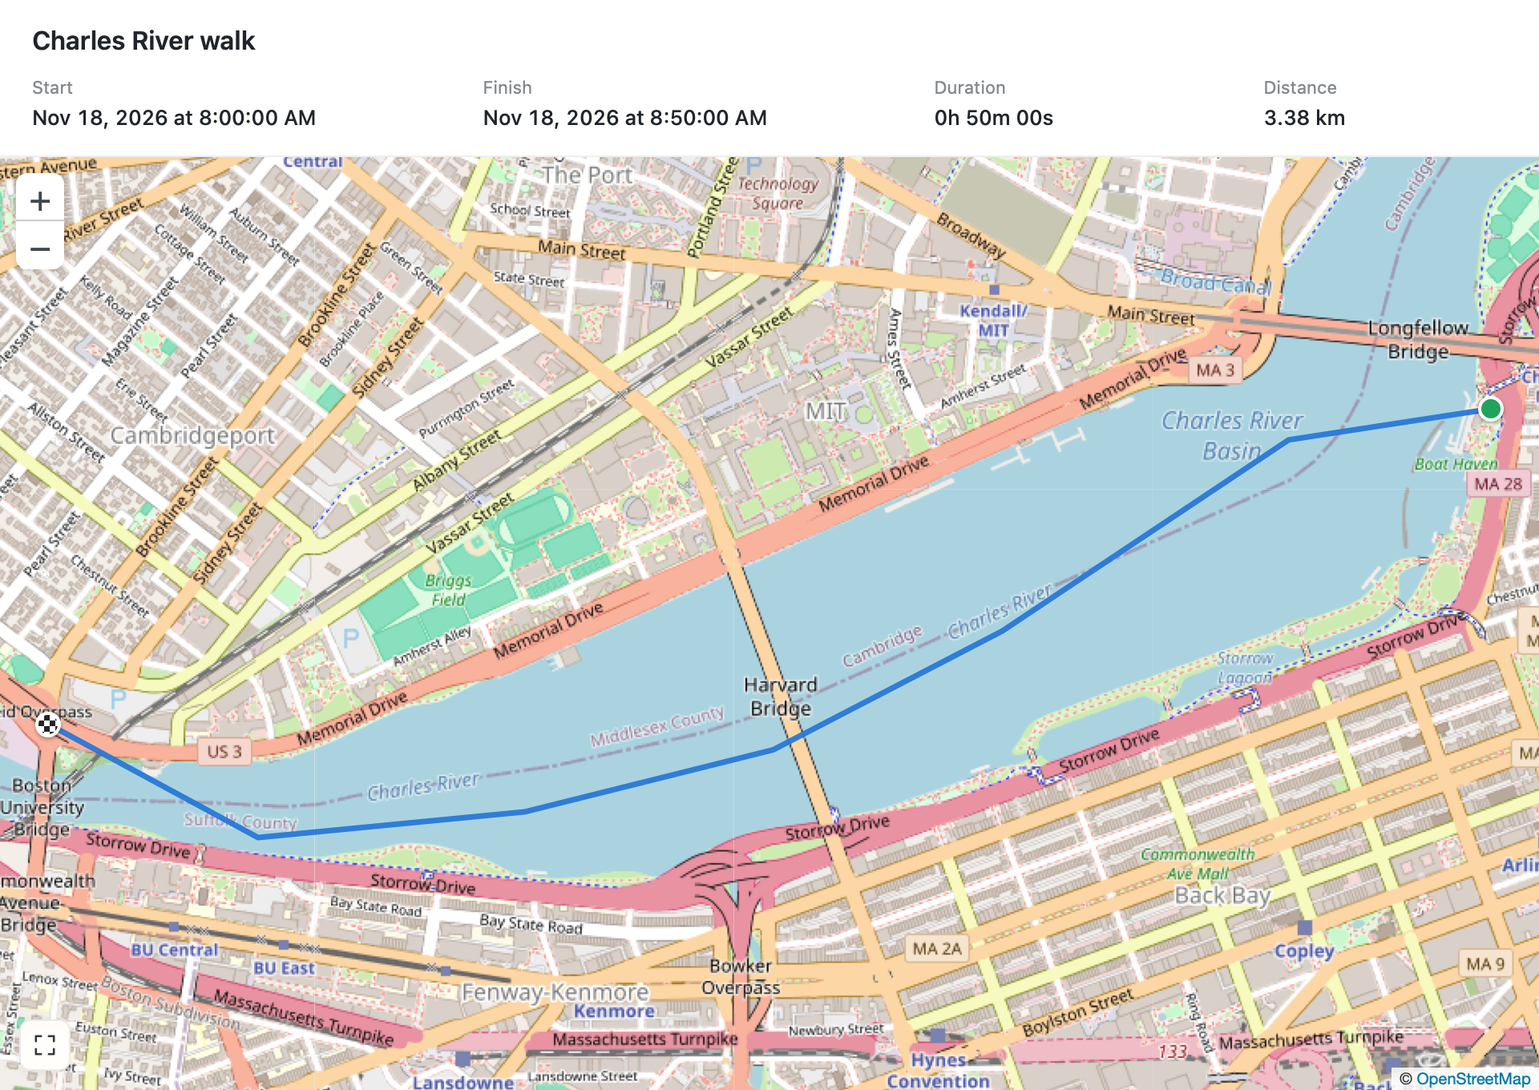
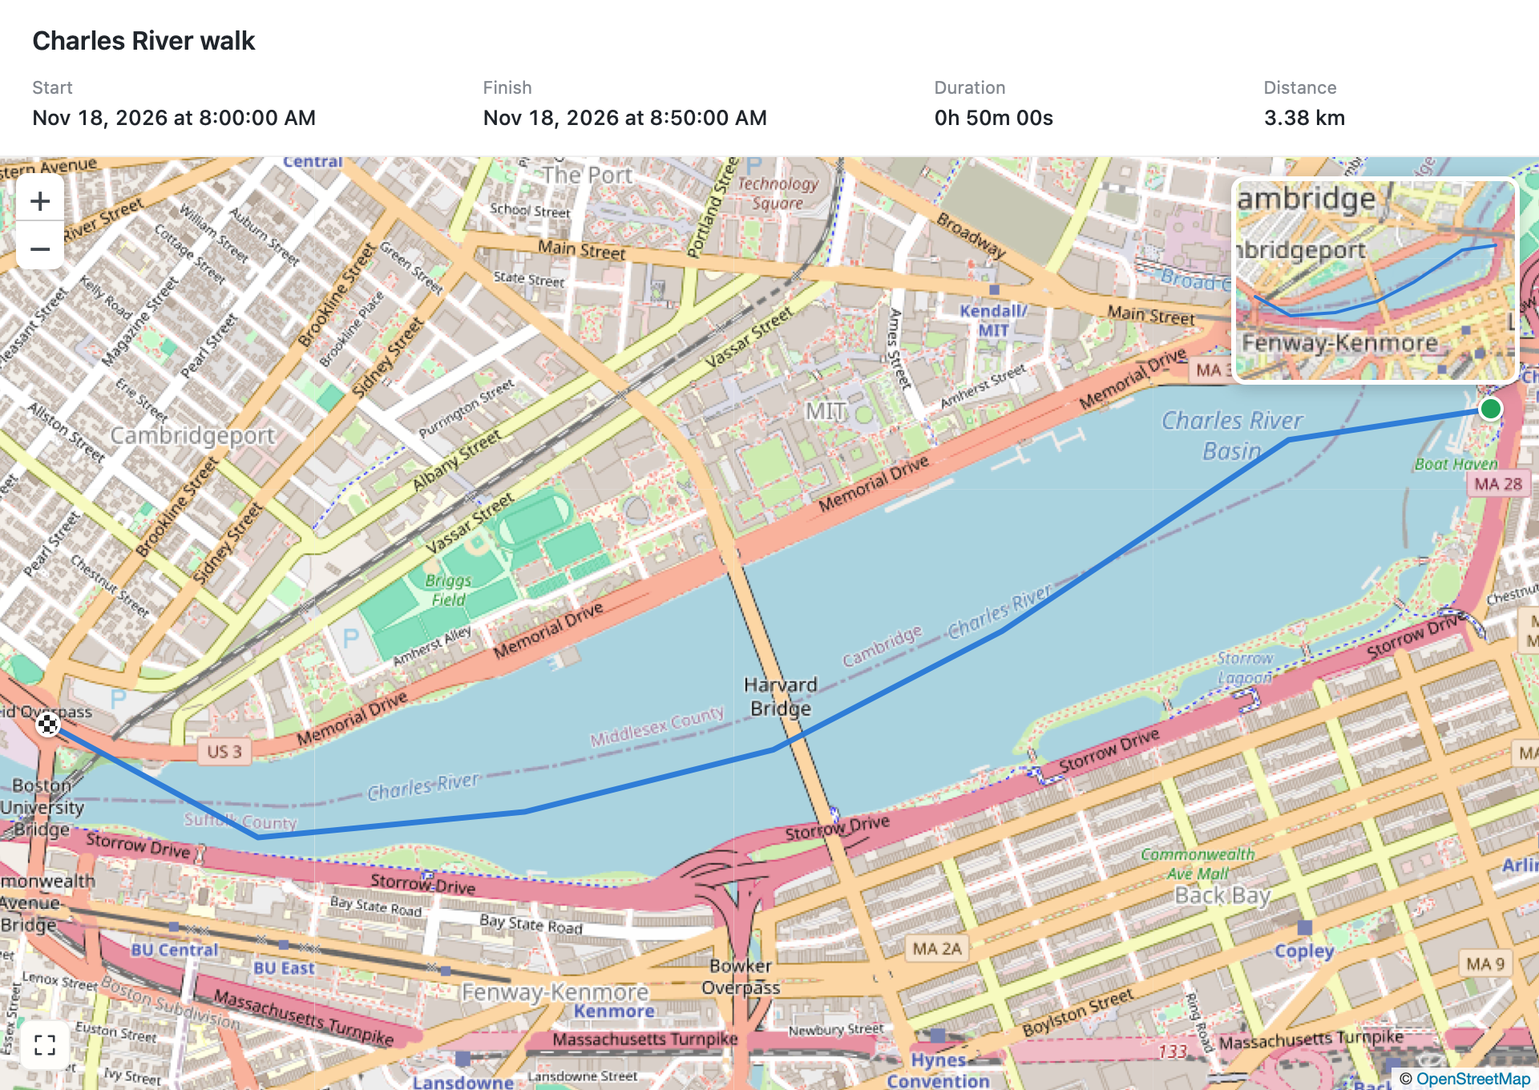
Fade minimap after drags and improve pinch zoom with live tile updates

Changed region(s): [[0.7812, 0.1544, 1.0, 0.3706]]

diff --git a/Resources/map.html b/Resources/map.html
@@ -1,5 +1,5 @@
 <!doctype html><html><head><meta charset="utf-8"><meta name="viewport" content="width=device-width,initial-scale=1"><link rel="stylesheet" href="leaflet.css"><style>
-*{box-sizing:border-box}body{margin:0;font:13px -apple-system,BlinkMacSystemFont,sans-serif;color:#20252b;background:#fff;height:100vh;display:flex;flex-direction:column}header{padding:16px 20px;border-bottom:1px solid #00000010}h1{font-size:16px;margin:0 0 14px;font-weight:600;overflow:hidden;text-overflow:ellipsis;white-space:nowrap}.stats{display:grid;grid-template-columns:1.4fr 1.4fr 1fr .8fr;gap:16px}.stat span{display:block;color:#82878e;font-size:11px;margin-bottom:4px}.stat strong{font-size:13px;font-weight:500;font-variant-numeric:tabular-nums}#mapWrap{position:relative;flex:1;display:flex;min-height:0}#map{flex:1;background:#edf0ed}.marker{width:16px;height:16px;border:2px solid white;border-radius:50%;box-shadow:0 1px 3px #0005}.start{background:#20a35a}.finish{background:conic-gradient(#242424 25%,#fff 0 50%,#242424 0 75%,#fff 0);background-size:7px 7px}button{font:12px -apple-system,sans-serif;color:#32383e;background:#fffefb;border:1px solid #00000014;border-radius:7px;padding:7px 10px;cursor:pointer;box-shadow:0 1px 5px #00000012}button:hover{background:#f1f3f4}button:focus-visible{outline:2px solid #2374dc;outline-offset:2px}#fit{position:absolute;bottom:12px;left:12px;z-index:800;width:32px;height:32px;padding:7px}button svg{display:block;width:16px;height:16px;fill:none;stroke:currentColor;stroke-width:1.6;stroke-linecap:round;stroke-linejoin:round}#minimapPanel{position:absolute;right:12px;top:12px;z-index:800;width:180px;height:130px}#minimapPanel[hidden]{display:none}#collapse{position:absolute;right:5px;top:5px;z-index:810;padding:5px;opacity:0;transition:opacity .15s}#minimapPanel:hover #collapse,#minimapPanel:focus-within #collapse{opacity:1}#minimapPanel.collapsed{width:28px;height:28px}#minimapPanel.collapsed #collapse{opacity:1;top:0;right:0}#minimapPanel.collapsed #collapse svg{transform:rotate(180deg)}#minimap{position:absolute;inset:0;border:3px solid white;border-radius:9px;box-shadow:0 2px 12px #0003;z-index:800;overflow:hidden;background:#edf0ed}#minimap[hidden],#status[hidden]{display:none}#status{position:absolute;bottom:12px;left:54px;z-index:800;background:#fffffff2;border-radius:7px;padding:8px 10px;box-shadow:0 1px 6px #0002;font-size:12px;color:#62686e}#retry{margin-left:8px;padding:3px 7px}.leaflet-control-zoom{border:0!important;box-shadow:0 1px 5px #0002!important;border-radius:7px!important;overflow:hidden}.leaflet-control-zoom a{color:#40474e!important;font-weight:400!important}.leaflet-control-attribution{font-size:10px!important;background:#ffffffd9!important}#minimap .leaflet-control-container{display:none}@media(max-width:650px){header{padding:12px 14px}.stats{grid-template-columns:1fr 1fr;gap:12px}#minimapPanel:not(.collapsed){width:145px;height:110px}}
+*{box-sizing:border-box}body{margin:0;font:13px -apple-system,BlinkMacSystemFont,sans-serif;color:#20252b;background:#fff;height:100vh;display:flex;flex-direction:column}header{padding:16px 20px;border-bottom:1px solid #00000010}h1{font-size:16px;margin:0 0 14px;font-weight:600;overflow:hidden;text-overflow:ellipsis;white-space:nowrap}.stats{display:grid;grid-template-columns:1.4fr 1.4fr 1fr .8fr;gap:16px}.stat span{display:block;color:#82878e;font-size:11px;margin-bottom:4px}.stat strong{font-size:13px;font-weight:500;font-variant-numeric:tabular-nums}#mapWrap{position:relative;flex:1;display:flex;min-height:0}#map{flex:1;background:#edf0ed}.marker{width:16px;height:16px;border:2px solid white;border-radius:50%;box-shadow:0 1px 3px #0005}.start{background:#20a35a}.finish{background:conic-gradient(#242424 25%,#fff 0 50%,#242424 0 75%,#fff 0);background-size:7px 7px}button{font:12px -apple-system,sans-serif;color:#32383e;background:#fffefb;border:1px solid #00000014;border-radius:7px;padding:7px 10px;cursor:pointer;box-shadow:0 1px 5px #00000012}button:hover{background:#f1f3f4}button:focus-visible{outline:2px solid #2374dc;outline-offset:2px}#fit{position:absolute;bottom:12px;left:12px;z-index:800;width:32px;height:32px;padding:7px}button svg{display:block;width:16px;height:16px;fill:none;stroke:currentColor;stroke-width:1.6;stroke-linecap:round;stroke-linejoin:round}#minimapPanel{position:absolute;right:12px;top:12px;z-index:800;width:180px;height:130px;opacity:0;visibility:hidden;pointer-events:none;transition:opacity .12s ease-out,visibility 0s linear .12s}#minimapPanel.visible{opacity:1;visibility:visible;pointer-events:auto;transition:opacity .12s ease-out,visibility 0s}#minimapPanel[hidden]{display:none}#collapse{position:absolute;right:5px;top:5px;z-index:810;padding:5px;opacity:0;transition:opacity .15s}#minimapPanel:hover #collapse,#minimapPanel:focus-within #collapse{opacity:1}#minimapPanel.collapsed{width:28px;height:28px}#minimapPanel.collapsed #collapse{opacity:1;top:0;right:0}#minimapPanel.collapsed #collapse svg{transform:rotate(180deg)}#minimap{position:absolute;inset:0;border:3px solid white;border-radius:9px;box-shadow:0 2px 12px #0003;z-index:800;overflow:hidden;background:#edf0ed}#minimap[hidden],#status[hidden]{display:none}#status{position:absolute;bottom:12px;left:54px;z-index:800;background:#fffffff2;border-radius:7px;padding:8px 10px;box-shadow:0 1px 6px #0002;font-size:12px;color:#62686e}#retry{margin-left:8px;padding:3px 7px}.leaflet-control-zoom{border:0!important;box-shadow:0 1px 5px #0002!important;border-radius:7px!important;overflow:hidden}.leaflet-control-zoom a{color:#40474e!important;font-weight:400!important}.leaflet-control-attribution{font-size:10px!important;background:#ffffffd9!important}#minimap .leaflet-control-container{display:none}@media(max-width:650px){header{padding:12px 14px}.stats{grid-template-columns:1fr 1fr;gap:12px}#minimapPanel:not(.collapsed){width:145px;height:110px}}
 </style></head><body><header><h1 id="name"></h1><div class="stats"><div class="stat"><span>Start</span><strong id="start"></strong></div><div class="stat"><span>Finish</span><strong id="finish"></strong></div><div class="stat"><span>Duration</span><strong id="duration"></strong></div><div class="stat"><span>Distance</span><strong id="distance"></strong></div></div></header><div id="mapWrap"><div id="map"></div><button id="fit" title="Zoom to fit" aria-label="Zoom to fit"><svg viewBox="0 0 20 20"><path d="M7 3H3v4m10-4h4v4M3 13v4h4m10-4v4h-4"/></svg></button><div id="minimapPanel" hidden><div id="minimap" aria-label="Track overview"></div><button id="collapse" title="Collapse minimap" aria-label="Collapse minimap" aria-expanded="true"><svg viewBox="0 0 20 20"><path d="m6 13 7-7M6 6h7v7"/></svg></button></div><div id="status" hidden><span>Some map tiles couldn’t load.</span><button id="retry">Retry</button></div></div><script src="leaflet.js"></script><script>
 const data=JSON.parse(new TextDecoder().decode(Uint8Array.from(atob('__TRACK_BASE64__'),c=>c.charCodeAt(0))));
 for(const key of ['name','start','finish','duration','distance'])document.getElementById(key).textContent=data[key];
@@ -8,7 +8,7 @@ const PreciseMap=L.Map.extend({
  _getNewPixelOrigin:function(center,zoom){return this.project(center,zoom).subtract(this.getSize().divideBy(2)).add(this._getMapPanePos());},
  latLngToLayerPoint:function(latlng){return this.project(L.latLng(latlng)).subtract(this.getPixelOrigin());}
 });
-const map=new PreciseMap('map',{zoomControl:true,scrollWheelZoom:false,zoomAnimation:true,fadeAnimation:false,zoomSnap:0,zoomDelta:.5,maxZoom:24});map.attributionControl.setPrefix(false);
+const map=new PreciseMap('map',{zoomControl:true,scrollWheelZoom:false,touchZoom:false,zoomAnimation:true,fadeAnimation:false,zoomSnap:0,zoomDelta:.5,maxZoom:24});map.attributionControl.setPrefix(false);
 const tileURL='gpx-tile://osm/{z}/{x}/{y}.png';
 // Leaflet's hard reset discards every image on each fractional zoom frame.
 // Retain loaded levels and decoded images so zooming and returning to fit never start blank.
@@ -34,7 +34,7 @@ const RetainedTiles=L.TileLayer.extend({
   }else L.TileLayer.prototype._removeTile.call(this,key);
  }
 });
-const tiles=new RetainedTiles(tileURL,{maxZoom:24,maxNativeZoom:19,updateWhenZooming:false,attribution:'© <a href="https://www.openstreetmap.org/copyright">OpenStreetMap</a>'}).addTo(map);
+const tiles=new RetainedTiles(tileURL,{maxZoom:24,maxNativeZoom:19,updateWhenZooming:true,attribution:'© <a href="https://www.openstreetmap.org/copyright">OpenStreetMap</a>'}).addTo(map);
 // Judge current visible tiles, never latch an error from a cancelled or past request.
 let statusTimer;
 function updateTileStatus(){clearTimeout(statusTimer);statusTimer=setTimeout(()=>{const current=Object.values(tiles._tiles).filter(t=>t.current);const failed=current.some(t=>t.el.dataset.failed==='true');document.getElementById('status').hidden=!failed;},500);}
@@ -52,6 +52,9 @@ let fitZoom=0,mini=null,miniTiles=null,viewport=null,fitting=false;
 let minimapEnabled=window.gpxMinimapEnabled!==false;
 const panel=document.getElementById('minimapPanel');
 const collapse=document.getElementById('collapse');
+panel.hidden=false;
+let minimapVisible=false,draggingMap=false;
+function setMinimapVisible(visible){minimapVisible=visible;panel.classList.toggle('visible',visible);panel.setAttribute('aria-hidden',String(!visible));}
 function updateMinimap(event){
  if(fitting)return;
  let visibleBounds=map.getBounds();
@@ -60,7 +63,8 @@ function updateMinimap(event){
   visibleBounds=L.latLngBounds(map.unproject(center.subtract(half),event.zoom),map.unproject(center.add(half),event.zoom));
  }
  const visible=!visibleBounds.contains(line.getBounds());
- panel.hidden=!visible;if(!visible)return;
+ if(!draggingMap)setMinimapVisible(visible);
+ if(!minimapVisible)return;
  panel.classList.toggle('collapsed',!minimapEnabled);
  document.getElementById('minimap').hidden=!minimapEnabled;
  collapse.setAttribute('aria-expanded',String(minimapEnabled));
@@ -72,7 +76,7 @@ function updateMinimap(event){
  if(!viewport.getBounds().equals(visibleBounds))viewport.setBounds(visibleBounds);
 }
 collapse.onclick=e=>{e.stopPropagation();minimapEnabled=!minimapEnabled;window.webkit?.messageHandlers?.minimapPreference?.postMessage(minimapEnabled);updateMinimap();};
-let zoomFrame=0,targetZoom=null,zoomAnchor=null,anchorLatLng=null,zoomIdleTimer=0,zoomGesture=false;
+let zoomFrame=0,targetZoom=null,zoomAnchor=null,anchorLatLng=null,zoomIdleTimer=0,zoomGesture=false,nativePinchActive=false,pinchStartZoom=0;
 function finishZoomGesture(){
  clearTimeout(zoomIdleTimer);
  if(zoomGesture){zoomGesture=false;map._moveEnd(true);map.fire('viewreset');}
@@ -89,13 +93,32 @@ function smoothZoom(){
 }
 map.getContainer().addEventListener('wheel',e=>{
  e.preventDefault();
+ if(nativePinchActive)return;
  if(!zoomGesture&&!zoomFrame)map.stop();
  zoomAnchor=map.mouseEventToContainerPoint(e);
  anchorLatLng=map.containerPointToLatLng(zoomAnchor);
  const delta=e.deltaY*(e.deltaMode===1?16:e.deltaMode===2?map.getSize().y:1);
- targetZoom=Math.max(map.getMinZoom(),Math.min(24,(targetZoom??map.getZoom())-delta/(e.ctrlKey?90:240)));
+ targetZoom=Math.max(map.getMinZoom(),Math.min(24,(targetZoom??map.getZoom())-delta/(e.ctrlKey?30:240)));
  if(!zoomFrame)zoomFrame=requestAnimationFrame(smoothZoom);
  clearTimeout(zoomIdleTimer);zoomIdleTimer=setTimeout(()=>{if(zoomFrame){cancelAnimationFrame(zoomFrame);smoothZoom();}finishZoomGesture();},70);
+},{passive:false});
+// Safari/WebKit delivers macOS pinch gestures as scale events on some devices,
+// and as control-wheel events on others. Handle both without double-applying them.
+function pinchAnchor(event){
+ const rect=map.getContainer().getBoundingClientRect();
+ zoomAnchor=event.clientX||event.clientY?L.point(event.clientX-rect.left,event.clientY-rect.top):map.getSize().divideBy(2);
+ anchorLatLng=map.containerPointToLatLng(zoomAnchor);
+}
+map.getContainer().addEventListener('gesturestart',event=>{
+ event.preventDefault();stopSmoothZoom();map.stop();nativePinchActive=true;pinchStartZoom=map.getZoom();pinchAnchor(event);
+},{passive:false});
+map.getContainer().addEventListener('gesturechange',event=>{
+ event.preventDefault();if(!nativePinchActive||!(event.scale>0))return;
+ targetZoom=Math.max(map.getMinZoom(),Math.min(24,pinchStartZoom+Math.log2(event.scale)*3));
+ if(!zoomFrame)zoomFrame=requestAnimationFrame(smoothZoom);
+},{passive:false});
+map.getContainer().addEventListener('gestureend',event=>{
+ event.preventDefault();if(zoomFrame){cancelAnimationFrame(zoomFrame);smoothZoom();}nativePinchActive=false;finishZoomGesture();
 },{passive:false});
 map.getContainer().addEventListener('mousedown',stopSmoothZoom);
 function fit(){
@@ -106,6 +129,8 @@ function fit(){
  fitZoom=map.getZoom();fitting=false;updateMinimap();
 }
 document.getElementById('fit').onclick=fit;
+map.on('dragstart',()=>{draggingMap=true;});
+map.on('dragend',()=>{draggingMap=false;updateMinimap();});
 map.on('move zoom zoomanim',updateMinimap);
 map.on('moveend zoomend',updateTileStatus);
 let resizeTimer;new ResizeObserver(()=>{clearTimeout(resizeTimer);resizeTimer=setTimeout(()=>{const wasFitted=Math.abs(map.getZoom()-fitZoom)<.01&&map.getBounds().contains(line.getBounds());map.invalidateSize({pan:false});if(wasFitted)fit();else updateMinimap();},80);}).observe(document.getElementById('map'));

diff --git a/Tests/WebSmoke.swift b/Tests/WebSmoke.swift
@@ -28,20 +28,28 @@ import WebKit
                     self.web.evaluateJavaScript("""
                         fit();
                         if(!minimapEnabled){minimapEnabled=true;updateMinimap();}
-                        const initiallyHidden=panel.hidden;
+                        const initiallyHidden=!minimapVisible;
                         const bounds=line.getBounds(),size=map.getSize();
                         const a=map.latLngToContainerPoint(bounds.getNorthWest()),b=map.latLngToContainerPoint(bounds.getSouthEast());
                         const fill=Math.max((b.x-a.x)/size.x,(b.y-a.y)/size.y);
                         const framingWorks=fill>.93&&fill<.95&&a.x>=11&&a.y>=11&&b.x<=size.x-11&&b.y<=size.y-11;
 
+                        map.fire('dragstart');map.panBy([900,0],{animate:false});
+                        const hiddenThroughoutDrag=!minimapVisible;
+                        map.fire('dragend');const visibleAfterRelease=minimapVisible;
+                        map.fire('dragstart');map.panBy([-900,0],{animate:false});
+                        const visibleThroughoutDrag=minimapVisible;
+                        map.fire('dragend');const hiddenAfterRelease=!minimapVisible;
+                        const dragVisibilityWorks=hiddenThroughoutDrag&&visibleAfterRelease&&visibleThroughoutDrag&&hiddenAfterRelease;
+                        const fadeWorks=getComputedStyle(panel).transitionProperty.includes('opacity')&&getComputedStyle(panel).transitionDuration.includes('0.12s');
                         const before=map.getZoom();
                         map.setZoom(before+.03,{animate:false});
-                        const stillInsideHidden=panel.hidden&&map.getBounds().contains(line.getBounds());
+                        const stillInsideHidden=!minimapVisible&&map.getBounds().contains(line.getBounds());
                         const originalTiles=Array.from(tiles.getContainer().querySelectorAll('img')).filter(img=>img.complete&&img.naturalWidth);
                         map.setZoom(before+2,{animate:false});
                         const retainedDuringZoom=originalTiles.some(img=>tiles.getContainer().contains(img));
                         const zoomWorks=map.getZoom()>before;
-                        const minimapShown=!panel.hidden&&!document.getElementById('minimap').hidden;
+                        const minimapShown=!!minimapVisible&&!document.getElementById('minimap').hidden;
                         collapse.click();const toggleOff=panel.classList.contains('collapsed')&&document.getElementById('minimap').hidden;
                         collapse.click();const toggleOn=!panel.classList.contains('collapsed')&&!document.getElementById('minimap').hidden;
                         const center=map.getCenter();map.panBy([60,40],{animate:false});
@@ -54,23 +62,37 @@ import WebKit
                             const firstZoom=map.getZoom();
                             setTimeout(()=>window.noAddedInertia=Math.abs(map.getZoom()-firstZoom)<.00001,180);
                         });
-                        initiallyHidden && framingWorks && stillInsideHidden && retainedDuringZoom && zoomWorks && panWorks && minimapShown && toggleOff && toggleOn
+                        setTimeout(()=>{
+                            const emit=(type,scale)=>{const event=new Event(type,{bubbles:true,cancelable:true});Object.assign(event,{scale,clientX:400,clientY:300});map.getContainer().dispatchEvent(event);};
+                            const startZoom=map.getZoom(),tileZoom=tiles._tileZoom;
+                            emit('gesturestart',1);emit('gesturechange',1.5);
+                            requestAnimationFrame(()=>{
+                                window.pinchGainWorks=Math.abs(map.getZoom()-startZoom-Math.log2(1.5)*3)<.00001;
+                                window.tilesUpdateDuringGesture=nativePinchActive&&tiles._tileZoom!==tileZoom;
+                                window.retainsImagesDuringPinch=Array.from(tiles.getContainer().querySelectorAll('img')).some(img=>img.complete&&img.naturalWidth);
+                                emit('gestureend',1.5);
+                                const ctrlStart=map.getZoom();
+                                map.getContainer().dispatchEvent(new WheelEvent('wheel',{deltaY:-30,ctrlKey:true,clientX:400,clientY:300,bubbles:true,cancelable:true}));
+                                requestAnimationFrame(()=>window.ctrlPinchGainWorks=Math.abs(map.getZoom()-ctrlStart-1)<.00001);
+                            });
+                        },220);
+                        initiallyHidden && dragVisibilityWorks && fadeWorks && framingWorks && stillInsideHidden && retainedDuringZoom && zoomWorks && panWorks && minimapShown && toggleOff && toggleOn
                         """) { result,error in
                         guard result as? Bool == true, error == nil else { print("Zoom failed",error as Any);exit(1) }
                         DispatchQueue.main.asyncAfter(deadline: .now() + 3) {
-                        self.web.evaluateJavaScript("window.immediateWheel && window.anchorStable && window.noAddedInertia && !zoomGesture && map.getZoom()>window.wheelBefore && Math.abs(map.getZoom()-Math.round(map.getZoom()))>.01") { result,error in
+                        self.web.evaluateJavaScript("window.pinchGainWorks && window.ctrlPinchGainWorks && window.tilesUpdateDuringGesture && window.retainsImagesDuringPinch && window.immediateWheel && window.anchorStable && window.noAddedInertia && !zoomGesture && map.getZoom()>window.wheelBefore && Math.abs(map.getZoom()-Math.round(map.getZoom()))>.01") { result,error in
                         guard result as? Bool == true, error == nil else { print("Smooth wheel zoom failed",error as Any);exit(1) }
                         self.web.evaluateJavaScript("""
                             map.setZoom(24,{animate:false});
                             const overzoom=map.getZoom()===24&&tiles._tileZoom===19;
-                            fit();const immediateFit=panel.hidden&&map.getBounds().contains(line.getBounds());
+                            fit();const immediateFit=!minimapVisible&&map.getBounds().contains(line.getBounds());
                             window.returnedTiles=Array.from(tiles.getContainer().querySelectorAll('img')).filter(img=>img.complete&&img.naturalWidth);
                             overzoom&&immediateFit&&returnedTiles.length>0
                             """) { result,error in
                         guard result as? Bool == true, error == nil else { print("Overzoom / instant fit failed",error as Any);exit(1) }
                         self.web.takeSnapshot(with:nil) { image,error in
                             if let image, let data=image.tiffRepresentation,let bitmap=NSBitmapImageRep(data:data),let png=bitmap.representation(using:.png,properties:[:]) { try! png.write(to:root.appendingPathComponent("Samples/Preview.png")) }
-                            print("Passed: native tile loading, markers, bounds, zoom, pan, first-frame wheel response, stable cursor anchor, no added inertia, retained tiles, 3.3% padding, trail-only minimap, level-24 overzoom, instant fit; snapshot saved")
+                            print("Passed: native tile loading, markers, bounds, zoom, pan, minimap fade, visibility frozen during drag, 3x pinch gain, live tile detail, first-frame wheel response, stable cursor anchor, no added inertia, retained tiles, 3.3% padding, trail-only minimap, level-24 overzoom, instant fit; snapshot saved")
                             timer.invalidate();NSApp.terminate(nil)
                         }
                         }

diff --git a/README.md b/README.md
@@ -10,8 +10,8 @@ The app can also open GPX files directly with Command-O or Finder's Open With me
 
 - OpenStreetMap tiles with attribution; internet access is required for the basemap. The route and statistics work without tiles.
 - Small green start and checkered finish circles, including offset markers for loops.
-- A top-right overview appears immediately only when part of the track is outside the main viewport; its viewport follows the main map. Click the overview to recenter. Hover over the minimap for its collapse icon; the collapsed icon expands it again. The collapsed state is remembered.
-- Drag to pan; scroll, double click, or use +/− to zoom. The lower-left fit icon restores the initial frame. Wheel and trackpad zoom follow input once per display frame with fractional coordinates, a fixed cursor anchor, and no added inertia on top of system scrolling. Loaded tile levels and up to 128 decoded tiles per map are retained for smooth transitions and quick return to fit. Zoom goes to level 24, enlarging native level-19 tiles at higher zooms.
+- A top-right overview appears immediately only when part of the track is outside the main viewport, with a 120 ms fade; its visibility stays fixed during a drag until release; its viewport follows the main map. Click the overview to recenter. Hover over the minimap for its collapse icon; the collapsed icon expands it again. The collapsed state is remembered.
+- Drag to pan; scroll, double click, or use +/− to zoom. The lower-left fit icon restores the initial frame. Wheel and trackpad zoom follow input once per display frame with fractional coordinates, a fixed cursor anchor, and no added inertia on top of system scrolling. Pinch gestures use 3× sensitivity for both WebKit scale events and control-wheel events. Tile detail updates at integer zoom levels during scrolling. Loaded tile levels and up to 128 decoded tiles per map are retained for smooth transitions and quick return to fit. Zoom goes to level 24, enlarging native level-19 tiles at higher zooms.
 - Initial framing fills the available map with a 3⅓% buffer on each side of the projected track bounds, with a minimum margin for marker visibility. Fractional zoom avoids the excess space caused by rounding to whole zoom levels. Single-point tracks have a sensible maximum zoom. Dateline crossings are unwrapped.
 - Start and stop use the first and last point timestamps in the local time zone. Missing timestamps display “Unavailable.” Duration is elapsed time, including pauses.
 - Length uses great-circle distances, without connecting separate track segments. Routes are used when there are no tracks. Waypoint-only files show an explanation.
